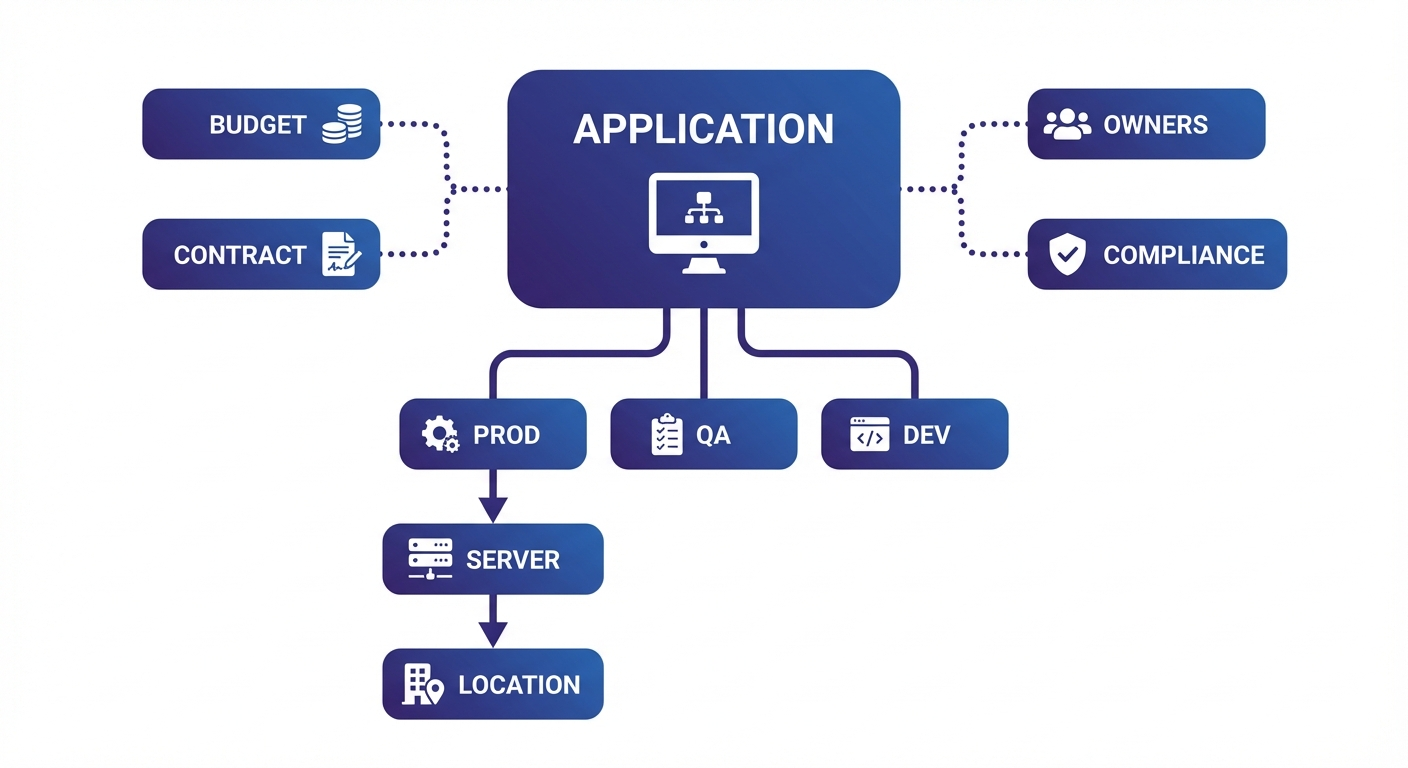
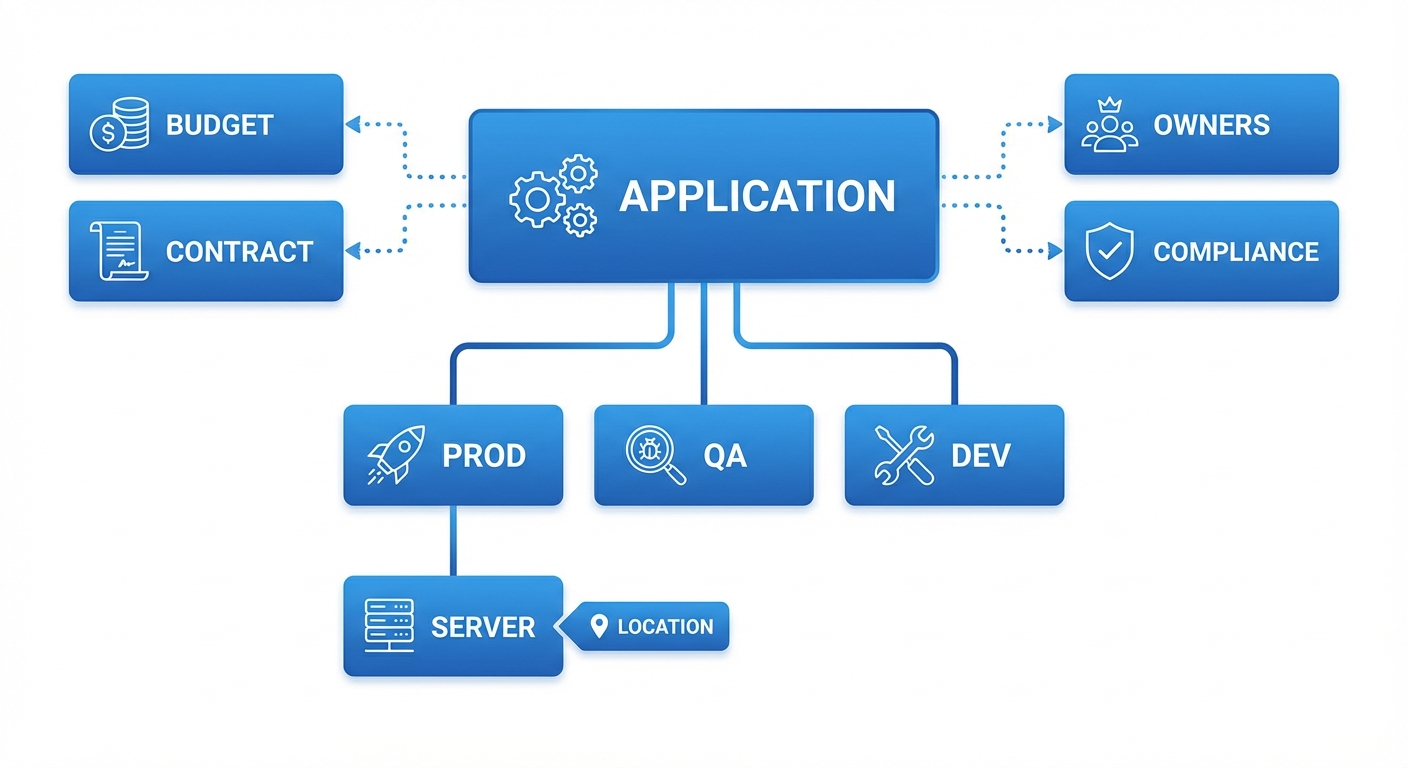
docs: fix IT Ops Fast Track based on code review - remove Location step, fix Instance fields, update Asset fields, regenerate illustrations

diff --git a/doc/help/docs/en/fast-track/apps-and-assets.md b/doc/help/docs/en/fast-track/apps-and-assets.md
@@ -22,9 +22,8 @@ Everything in KANAP's IT Operations module connects to paint a complete picture 
 | **Application** | A business app or IT service you need to document |
 | **Environment** | Where it runs — Prod, QA, Dev, etc. (called "Instances" in KANAP) |
 | **Server (Asset)** | The infrastructure that hosts it — VMs, physical servers, containers |
-| **Location** | Where the server lives — data center, cloud region, colo |
 
-The chain is simple: **Application → Environment → Server → Location**. By the end of this guide, you'll have this chain fully documented.
+The chain is simple: **Application → Environment → Server**. By the end of this guide, you'll have this chain fully documented.
 
 ![Application Relationship Model](images/app-relationship-model.png)
 
@@ -58,17 +57,18 @@ Click **Save**. Your application is now in the registry.
 
 Every application runs somewhere. The **Instances** tab documents your environments.
 
-Open your application and go to the **Instances** tab. Click **Add** and select **Production** (or whichever environment you want to document first).
+Open your application and go to the **Instances** tab. Click **Add** and select the environment type (Prod, Pre-prod, QA, Test, Dev, or Sandbox).
 
 For each instance, you can capture:
 
 | Field | What it does | Example |
 |-------|-------------|---------|
+| **Environment** | The environment type | `Prod` |
 | **Base URL** | The access URL | `https://mycompany.salesforce.com` |
-| **Region / Zone** | Geographic deployment | `EU West` |
+| **Lifecycle** | Instance-specific status | `Active` |
 | **SSO Enabled** | Is Single Sign-On active? | `Yes` |
 | **MFA Supported** | Is Multi-Factor Authentication supported? | `Yes` |
-| **Lifecycle** | Instance-specific status | `Active` |
+| **Notes** | Any additional context | `Primary EU instance` |
 
 !!! tip "Copy from Prod"
     Once your Production instance is set up, use the **Copy from Prod** button to quickly scaffold QA, Dev, and other environments with similar settings.
@@ -151,67 +151,57 @@ Go to the **Compliance** tab. This is increasingly important for audits and regu
 
 ---
 
-## Step 7: Create a Location (if needed)
-
-Before creating a server, you need a **Location** where it lives. If you already have locations configured, skip to Step 8.
-
-Go to **IT Operations → Locations** and click **Add Location**.
-
-| Field | What to enter | Example |
-|-------|--------------|---------|
-| **Code** | A short unique code | `DC-EU-PARIS` |
-| **Name** | Descriptive name | `Paris Datacenter` |
-| **Hosting Type** | The type of facility | `On-premises datacenter` |
-| **Country** | Geographic location | `France` |
-| **City** | City | `Paris` |
-
-!!! info "Location = many derived attributes"
-    The Location is powerful because it automatically determines:
-
-    - **Hosting type** (on-prem, cloud, colo) → shown on assets and apps
-    - **Provider** (AWS, Azure, etc.) → derived for cloud locations
-    - **Country** → enables geographic reporting and compliance
-    - **Network subnets** → configured per location for IP validation
-
-    One location record enriches every asset assigned to it. Set it up once, benefit everywhere.
-
----
-
-## Step 8: Create Your Server (Asset)
+## Step 7: Create Your Server (Asset)
 
 Go to **IT Operations → Assets** and click **Add Asset**.
+
+### Overview Tab
 
 Fill in the core fields:
 
 | Field | What to enter | Example |
 |-------|--------------|---------|
 | **Name** | Hostname or identifier | `PROD-WEB-01` |
-| **Asset Type** | The server's role | `Virtual Machine` |
-| **Environment** | Which environment | `Production` |
-| **Location** | Where it's hosted | `DC-EU-PARIS` |
+| **Asset Type** | The server type (dropdown) | `Virtual Machine` |
+| **Is Cluster** | Toggle if this is a cluster | `No` |
+| **Location** | Where it's hosted (required) | `Paris Datacenter` |
 | **Lifecycle** | Current status | `Active` |
+| **Go-live date** | When it entered service | `2025-01-15` |
+| **End-of-life date** | Planned decommission | — |
+| **Notes** | Any additional context | — |
+
+Once a Location is selected, several **read-only fields** are automatically derived:
+
+- **Hosting type** (on-premises, cloud, colocation, etc.)
+- **Provider / Company** (e.g., AWS, Azure, OVH)
+- **Country**
+- **City**
+
+!!! info "Location is the key"
+    The Location drives many attributes of your asset automatically. Locations are managed in **IT Operations → Locations** — set them up once and every asset assigned to them inherits hosting type, provider, country, and city. You don't need to fill these in manually.
 
 Click **Save** to unlock the full workspace.
 
-### Technical Details
+### Technical Tab
 
 Go to the **Technical** tab to add:
 
-- **Operating System**: e.g., `Ubuntu 24.04 LTS`
-- **Hostname** / **Domain** / **FQDN**: Network identity (FQDN is auto-computed)
-- **Aliases**: Additional DNS names
-- **IP Addresses**: Add one or more entries with type, address, and subnet
+| Section | Fields | Details |
+|---------|--------|---------|
+| **Environment** | Environment dropdown | `Production`, `QA`, `Dev`, etc. |
+| **Identity** | Hostname, Domain, FQDN, Aliases, OS | FQDN is auto-computed from Hostname + Domain |
+| **IP Addresses** | Type, IP, Subnet | Network Zone and VLAN are derived from Subnet |
 
 !!! tip "Naming conventions"
     Include environment, role, and sequence in your names: `prod-web-01`, `qa-db-master`, `dev-app-02`. Your future self will thank you.
 
 ---
 
-## Step 9: Link the Server to Your Application
+## Step 8: Link the Server to Your Application
 
 This is the final connection — tying your server to the application environment it supports.
 
-There are **two ways** to make this link:
+There are **two ways** to create this assignment:
 
 ### From the Application side
 
@@ -224,12 +214,23 @@ There are **two ways** to make this link:
 
 ### From the Asset side
 
-The asset's **Assignments** column in the list shows how many applications are linked. This is read-only from the asset — assignments are always managed from the Application's Servers tab.
+1. Open your asset
+2. Go to the **Assignments** tab
+3. Click **Add Assignment**
+4. Fill in the assignment fields:
+
+| Field | What to enter | Example |
+|-------|--------------|---------|
+| **Application** | The application to link | `Salesforce CRM` |
+| **Environment / Instance** | Which instance | `Production` |
+| **Role** | Server role for this app | `Web` |
+| **Since date** | When the assignment started | `2025-01-15` |
+| **Notes** | Any context | — |
 
 !!! success "The chain is complete"
     You now have the full path documented:
 
-    **Salesforce CRM** → **Production instance** → **PROD-WEB-01** → **DC-EU-PARIS**
+    **Salesforce CRM** → **Production instance** → **PROD-WEB-01**
 
     Anyone can trace from "what app?" to "what server?" to "where is it?" in seconds.
 
@@ -270,9 +271,9 @@ Once assets are documented, you can create **Connections** between them to visua
 | Set access methods | Open app → Technical & Support tab |
 | Link budgets/contracts | Open app → Relations tab |
 | Add compliance info | Open app → Compliance tab |
-| Create a location | IT Operations → Locations → Add Location |
 | Create a server | IT Operations → Assets → Add Asset |
-| Link server to app | Open app → Servers tab → Add Server |
+| Link server to app (from app) | Open app → Servers tab → Add Server |
+| Link server to app (from asset) | Open asset → Assignments tab → Add Assignment |
 | View connections | IT Operations → Connection Map |
 | Configure dropdowns | IT Operations → Settings |
 
